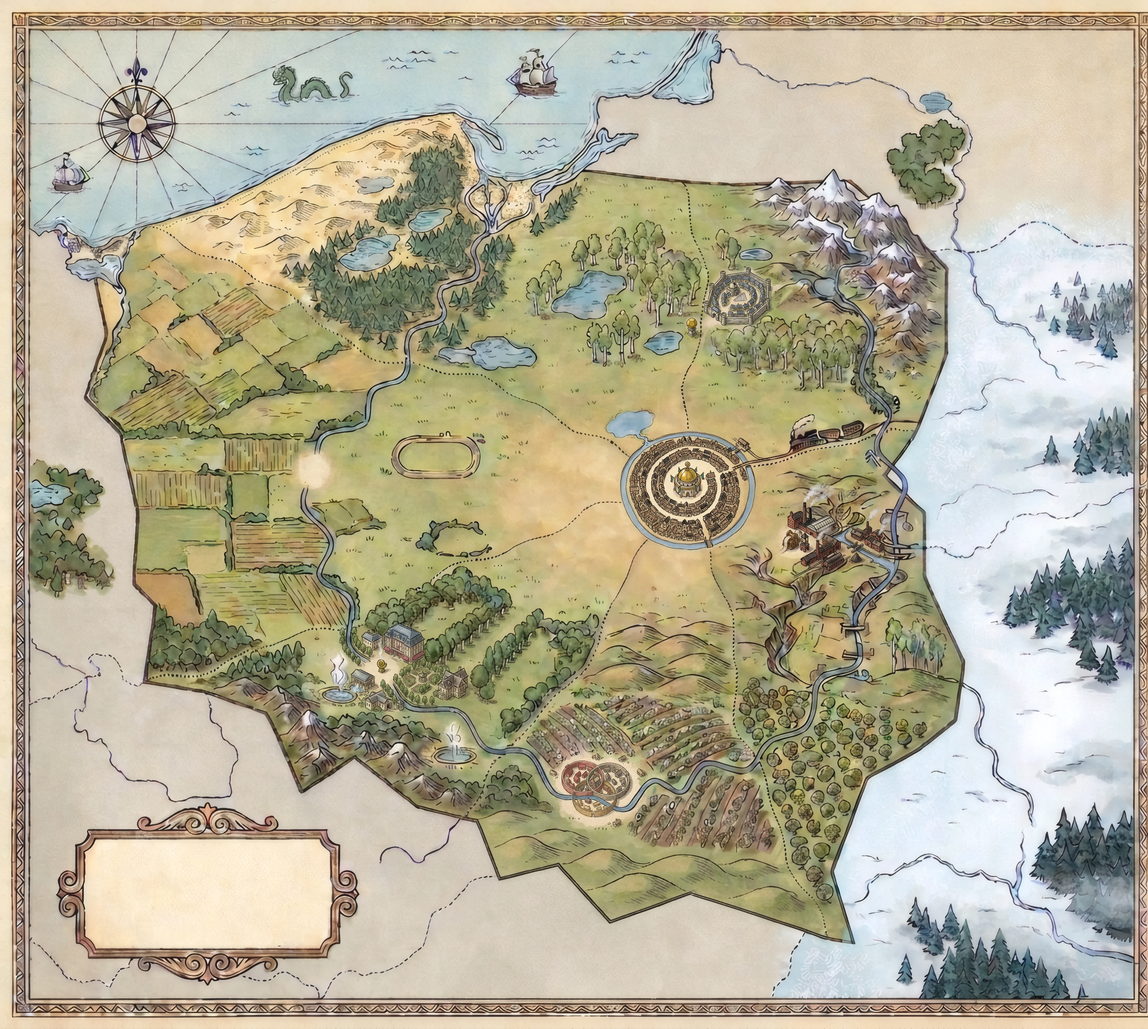
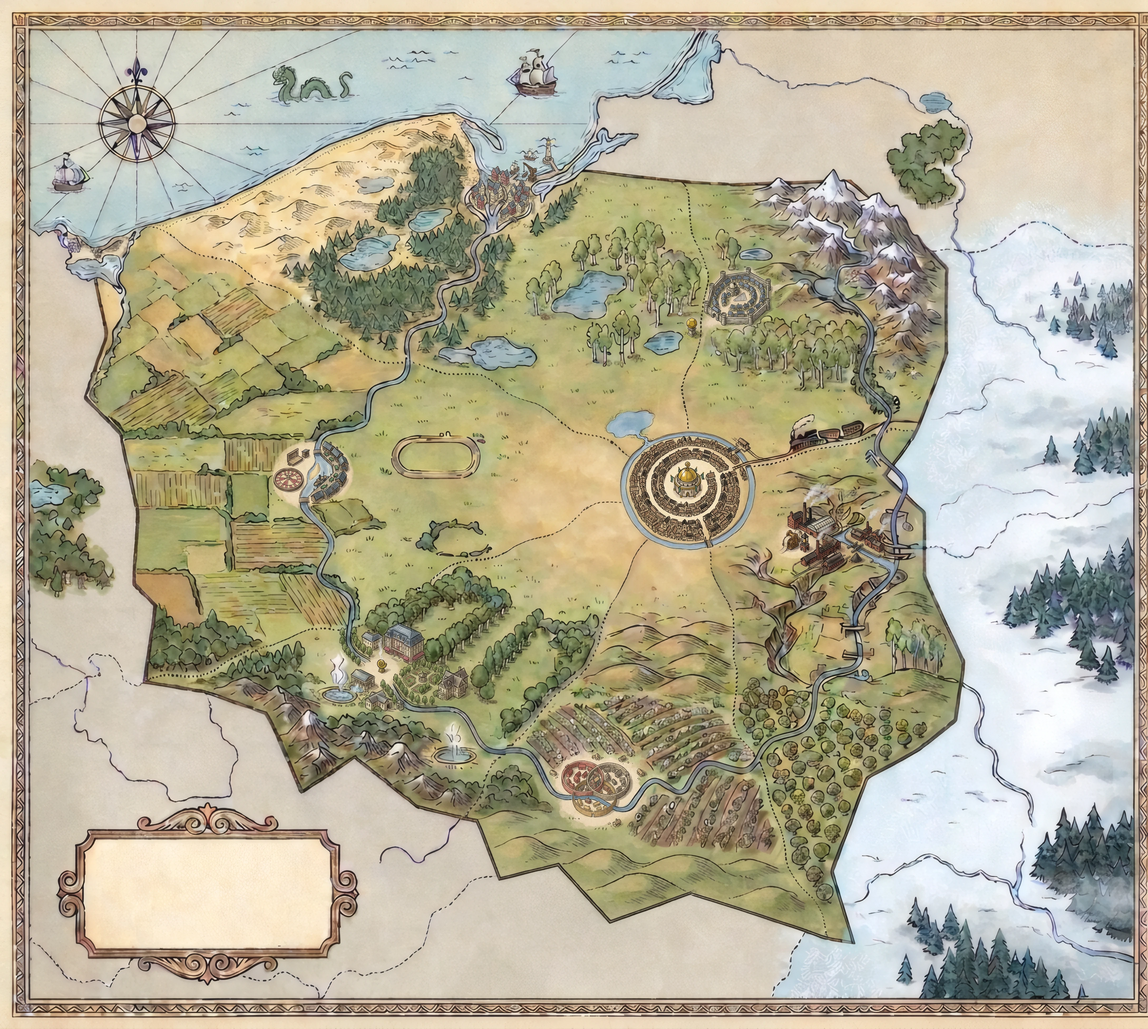
docs(lore): vignettes de Bonneteau et de Sinusborg, les sept villes sur la carte

Changed region(s): [[0.2185, 0.4062, 0.3122, 0.5312], [0.4059, 0.125, 0.4995, 0.2188]]

diff --git a/docs/wip/illustrations-progress.md b/docs/wip/illustrations-progress.md
@@ -2,10 +2,10 @@
 
 ## Reprendre ici
 
-_Mis à jour le 2026-10-29, fond de la grande carte figé en haute définition (pas de PR : chantier 100 % doc)._
+_Mis à jour le 2026-10-29, les sept villes posées sur la grande carte (pas de PR : chantier 100 % doc)._
 
 - **État** : casting, gouverneurs et Palotins versés au Compendium (§ XI) ; plans des sept capitales au Compendium. **Fond de la grande carte FIGÉ** : `carte/fond-carte-hd.webp` (4356×3904, WebP q92 ; PNG maître de 32 Mo chez David, `~/Downloads/fond-carte-hd-2026-10-29.png`, hors dépôt). Chaîne : Nano Banana (style carte de conte / carte marine, référence `carte/plan-reference-ia.png`) → retouches une à une (`carte/fond-retouche-2026-10-29.jpeg`, 1089×976) → Upscayl ×4, modèle High Fidelity (Digital Art durcit les traits en BD, Standard floute). Pas de clairière à Sinusborg (sa vignette couvrira le delta). Leçon : chaque retouche Nano Banana dégrade l'image ; nouvelle conversation, une retouche par demande.
-- **Prochaine action** : vignettes des villes, une par une (Empoche-les-Bains, Sandomir, Turingrad, Lobatchevsk et Cracovenn faites, restent Bonneteau et Sinusborg, prompts prêts dans la conversation du 2026-10-29 ; méthode en bas de page ; Sandomir : lac voisin et douves, Compendium à jour ; Turingrad doit déborder jusqu’à la Vistule), puis noms et contour en SVG (masquer le bout de pointillé qui déborde à l'est), encart de l'Isle (le cartouche a pris le coin bas-gauche) ; ensuite les cartes de chaque capitale.
+- **Prochaine action** : noms et contour en SVG sur `carte/carte-villes-hd.webp` (masquer le bout de pointillé qui déborde à l'est), encart de l'Isle (le cartouche a pris le coin bas-gauche) ; ensuite les cartes de chaque capitale. **Sept villes posées** (méthode et réserves acceptées en bas de page) : images de l'IA dans `carte/vignettes/<ville>-ia.webp`, carte assemblée par `bash carte/vignettes/recoller.sh`. Retouche à la main possible plus tard : enceinte de Lobatchevsk à 8 tours au lieu de 12.
 - **En attente de David** : rien.
 - **Pièges en cours** : **pas de formes géométriques plaquées sur le paysage** (David, 2026-10-29) : la discipline de chaque province ne se montre que dans sa ville. Ubu sans chapeau pointu ni longue robe blanche ; joindre l'image d'Ubu comme référence à chaque nouveau personnage ; noms de couleurs en anglais courant ; références sans texte ; jamais de personne réelle nommée. Le Lexique décrit encore Turingrad « brutaliste soviétique » : ne pas y toucher sans demande.
 - **Worktree / branche** : aucun, commits doc directs sur `main`.
@@ -64,4 +64,4 @@ style: 1896 Montmartre lithographic poster in the manner of Théophile-Alexandre
 
 Plan schématique SVG validé par David → fond par l'IA sans texte, guidé par le plan → vignettes de villes générées une à une → décor (cartouche, rose des vents, encart) → noms en SVG posés à la main (orthographe sûre, carte cliquable sur le site).
 
-**Vignettes des villes** (validé par David, 2026-10-29) : carré de 768 px découpé dans `fond-carte-hd.webp` autour de chaque clairière (coins dans `carte/vignettes/recoller.sh`) → Nano Banana, nouvelle conversation par ville, le carré seul en pièce jointe, « draw a small town in the pale round clearing… keep everything outside exactly as it is » → image rangée sous `vignettes/<ville>-ia.webp` → `bash vignettes/recoller.sh` recolle tout sur le fond (masque = différence avec le carré d’origine) et produit `carte-villes-hd.webp`. Empoche-les-Bains : 1er essai retenu, l’IA n’a rien bougé hors de la ville. Sandomir : 2e essai retenu (le 1er redessinait tout le carré et agrandissait la ville) ; réserves acceptées par David : les rails franchissent les douves, anneaux plus que spirale. Turingrad : la Vistule ne traverse pas la ville (canal à écluses), gardé. Lobatchevsk : 2e essai, dodécaèdre juste mais enceinte à 8 tours (Nano Banana ne compte pas), gardé. Cracovenn : 1er essai, trois enceintes et Vistule à travers. ⚠ `recoller.sh` colle sur la carte EN COURS (les carrés de Sandomir et Turingrad se chevauchent).
+**Vignettes des villes** (validé par David, 2026-10-29) : carré de 768 px découpé dans `fond-carte-hd.webp` autour de chaque clairière (coins dans `carte/vignettes/recoller.sh`) → Nano Banana, nouvelle conversation par ville, le carré seul en pièce jointe, « draw a small town in the pale round clearing… keep everything outside exactly as it is » → image rangée sous `vignettes/<ville>-ia.webp` → `bash vignettes/recoller.sh` recolle tout sur le fond (masque = différence avec le carré d’origine) et produit `carte-villes-hd.webp`. Empoche-les-Bains : 1er essai retenu, l’IA n’a rien bougé hors de la ville. Sandomir : 2e essai retenu (le 1er redessinait tout le carré et agrandissait la ville) ; réserves acceptées par David : les rails franchissent les douves, anneaux plus que spirale. Turingrad : la Vistule ne traverse pas la ville (canal à écluses), gardé. Lobatchevsk : 2e essai, dodécaèdre juste mais enceinte à 8 tours (Nano Banana ne compte pas), gardé. Cracovenn : 1er essai, trois enceintes et Vistule à travers. Bonneteau : 1er essai, maisons sur la rive est seulement, gardé. Sinusborg (carré redescendu sur le delta, y = 400) : 1er essai, toits droits (pas de sinusoïdes), gardé. ⚠ `recoller.sh` colle sur la carte EN COURS (les carrés de Sandomir et Turingrad se chevauchent).
